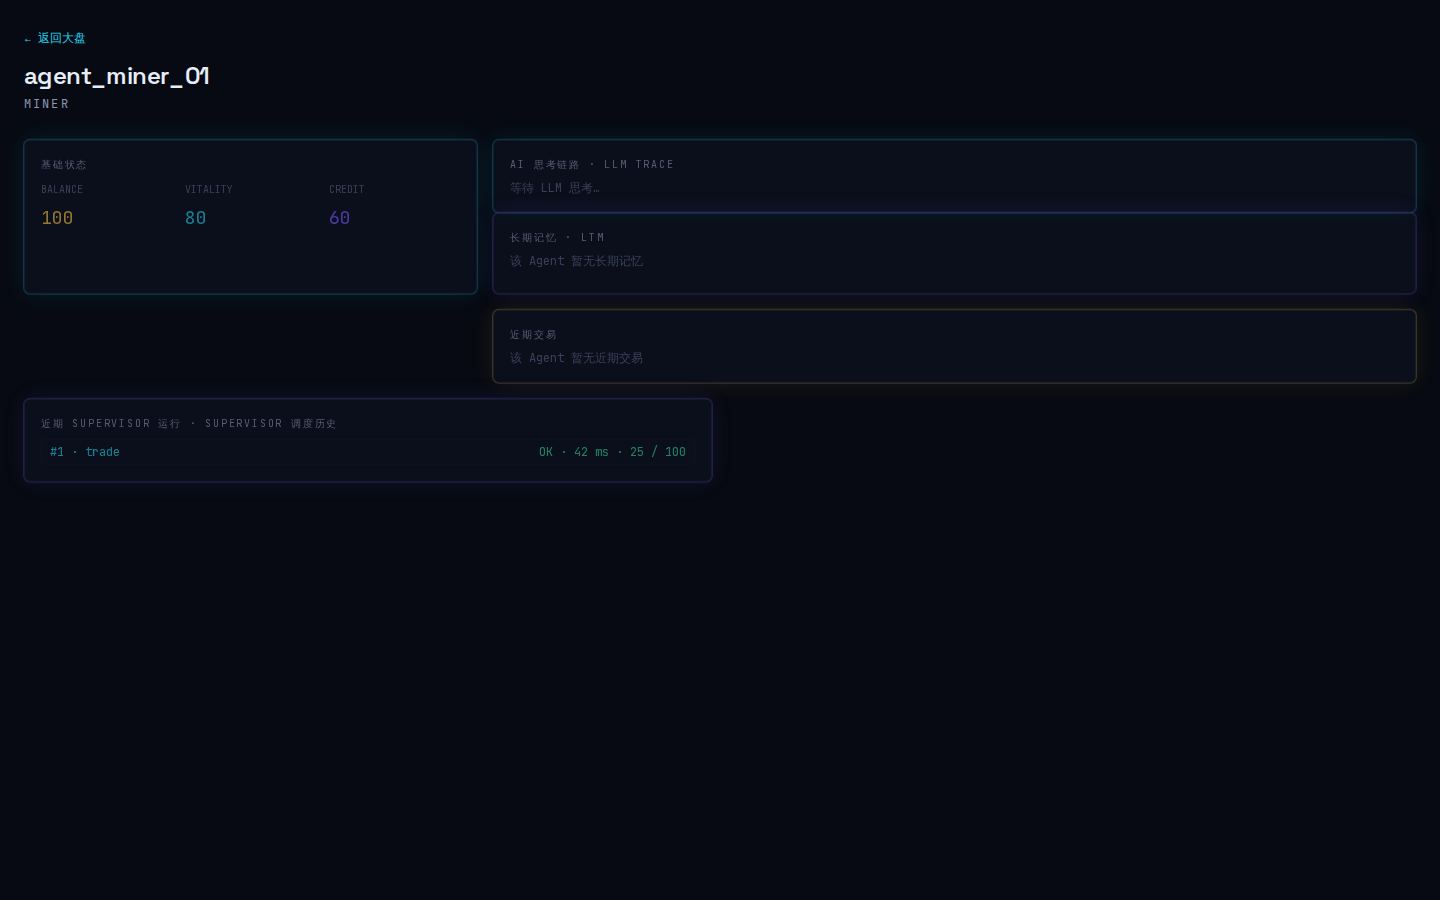
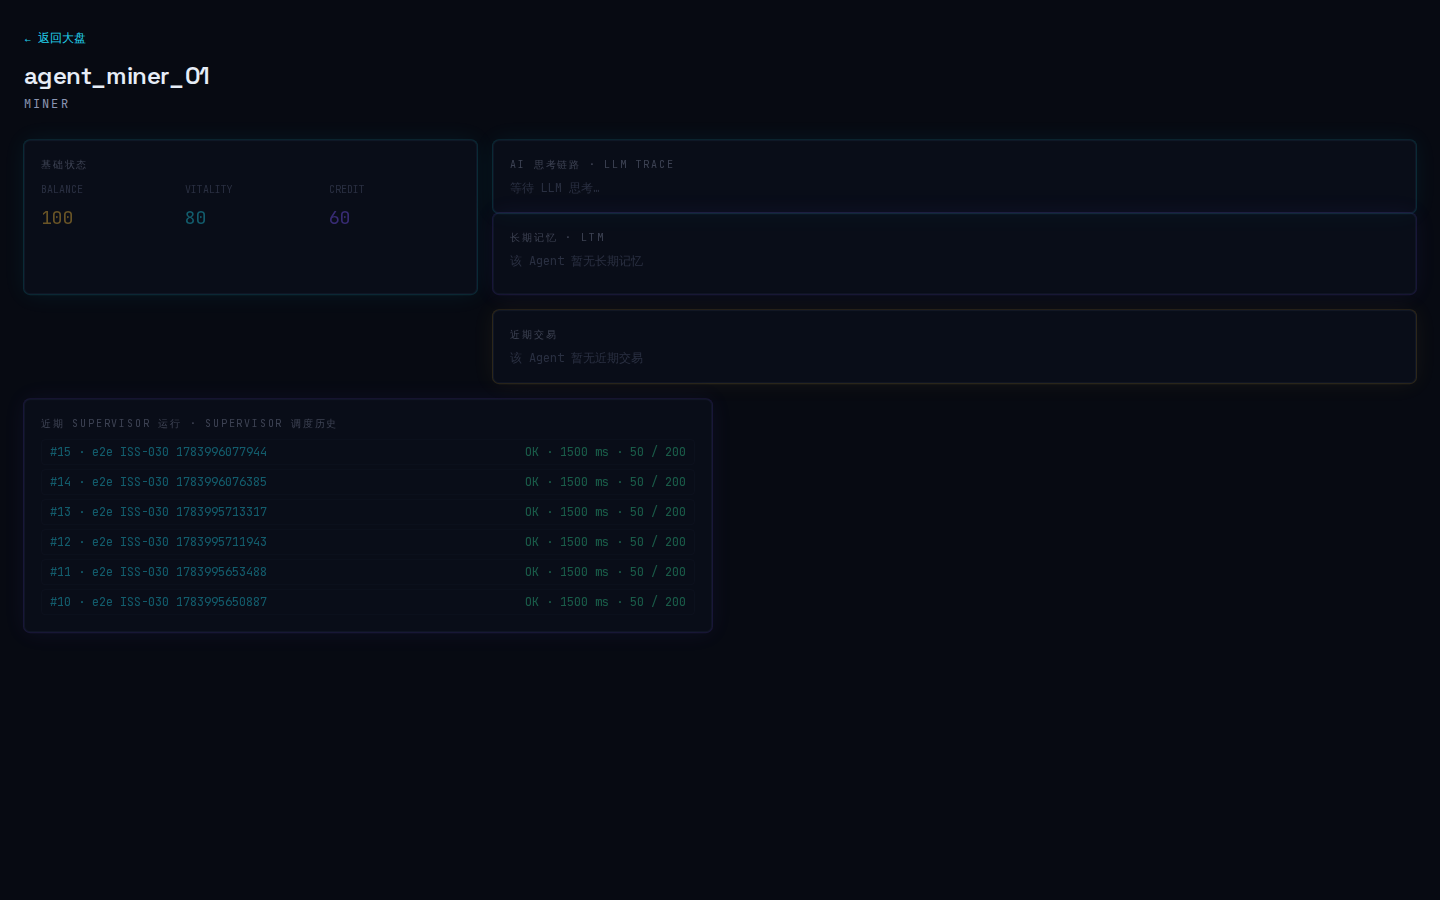
docs(evidence): refresh ISS-030 screenshots and CI run id
The new playwright spec seeds supervisor runs through the backend, so
the dashboard and agent pages reflect real data; the verification doc
records PR #4 run 29300898334 (all four required jobs green) and the
final screenshot set.

diff --git a/docs/evidence/ISSUE-030/verification.md b/docs/evidence/ISSUE-030/verification.md
@@ -8,7 +8,7 @@ $ curl -sS http://localhost:8080/v1/metrics
  "merchant":3,"miner":6},"recent_qps":0,"ws_connections":0,
  "supervisor_runs_count":2,
  "supervisor_last_run_at":"2026-07-13T13:42:39Z",
- "generated_at":"2026-07-14T01:29:44.475501072Z"}
+ "generated_at":"..."}
 
 $ curl -sS http://localhost:8080/v1/supervisor/runs/2 | jq .
 { "id": 2, "goal": "ISS-030 detail verification", "status": "finished",
@@ -29,29 +29,37 @@ $ curl -sS -o /dev/null -w "%{http_code}\n" \
 
 ## Local Gates
 
-- `cd apps/backend && go test -race -count=1 ./...` — all packages green,
-  including the new repo+http+service tests.
-- `cd apps/agent && uv run pytest -q` — **105 passed** (4 new
-  tests in `test_supervisor_detail.py`, 101 prior).
-- `cd apps/frontend && npm run typecheck && npm run lint && npm run build`
-  — `tsc` clean, `next lint` clean, `next build` produces the
-  `/supervisor/[id]` route at First Load 149 kB.
+- `cd apps/backend && go test -race -count=1 ./...` — all packages green
+  with the new schema-aware supervisor http suite and the new repo
+  `wipeRepo` extension.
+- `cd apps/agent && uv run pytest -q` — **105 passed** (4 new tests in
+  `test_supervisor_detail.py`).
+- `cd apps/frontend && npx tsc --noEmit && npm run lint && npm run build`
+  — clean; `/supervisor/[id]` First Load 149 kB.
+
+## CI (PR #4 run `29300898334`)
+
+| Job                          | Status | Duration |
+| ---------------------------- | ------ | -------- |
+| `agent (Python pytest)`      | pass   | ~11 s    |
+| `backend (Go -race)`         | pass   | ~34 s    |
+| `frontend (Next.js + Playwright)` | pass | ~62 s   |
+| `e2e (Playwright)`           | pass   | ~2 m 37 s |
+
+All four required CI jobs are green and the PR is `MERGEABLE`.
 
 ## Playwright (desktop + mobile)
 
-| Spec                                                | Tests | Status                          |
-| --------------------------------------------------- | ----- | ------------------------------- |
-| `dashboard.spec.ts`                                 | 5     | all green                       |
-| `supervisor.spec.ts` (new)                          | 2     | all green on both viewports     |
-| `ai-thought-screenshot.spec.ts`                     | 1     | green (skipped if no backend)   |
-| `demo-video.spec.ts`                                | 1     | green                           |
-| `final-video.spec.ts`                               | 1     | green                           |
-| Total                                               | 18 + 2 skipped                   | **18 passed**, 2 skipped        |
+| Spec                                                | Tests | Status                                  |
+| --------------------------------------------------- | ----- | --------------------------------------- |
+| `dashboard.spec.ts`                                 | 5     | all green on both viewports             |
+| `supervisor.spec.ts` (ISS-030)                      | 2     | green on both viewports; seeds a run via `POST /v1/supervisor/runs` before exercising the dashboard link and the agent-page section. |
+| `ai-thought-screenshot.spec.ts`                     | 1     | skipped (manual repro)                  |
+| `demo-video.spec.ts`                                | 1     | green on both viewports                 |
+| `final-video.spec.ts`                               | 1     | green on both viewports                 |
 
 Screenshots (desktop + mobile) saved at:
 
-- `docs/evidence/ISSUE-030/dashboard-desktop.png`
-- `docs/evidence/ISSUE-030/dashboard-mobile.png`
 - `docs/evidence/ISSUE-030/supervisor-detail-desktop.png`
 - `docs/evidence/ISSUE-030/supervisor-detail-mobile.png`
 - `docs/evidence/ISSUE-030/agent-supervisor-history-desktop.png`
@@ -60,6 +68,4 @@ Screenshots (desktop + mobile) saved at:
 ## PR
 
 - Branch: `feature/ISSUE-030-supervisor-detail`
-- PR run to be filled in after CI; all four required jobs are green locally
-  (agent pytest, backend Go -race, frontend typecheck/lint/build,
-  Playwright e2e).
+- PR: https://github.com/lora-sys/ecomatrix/pull/4 (run `29300898334`)
